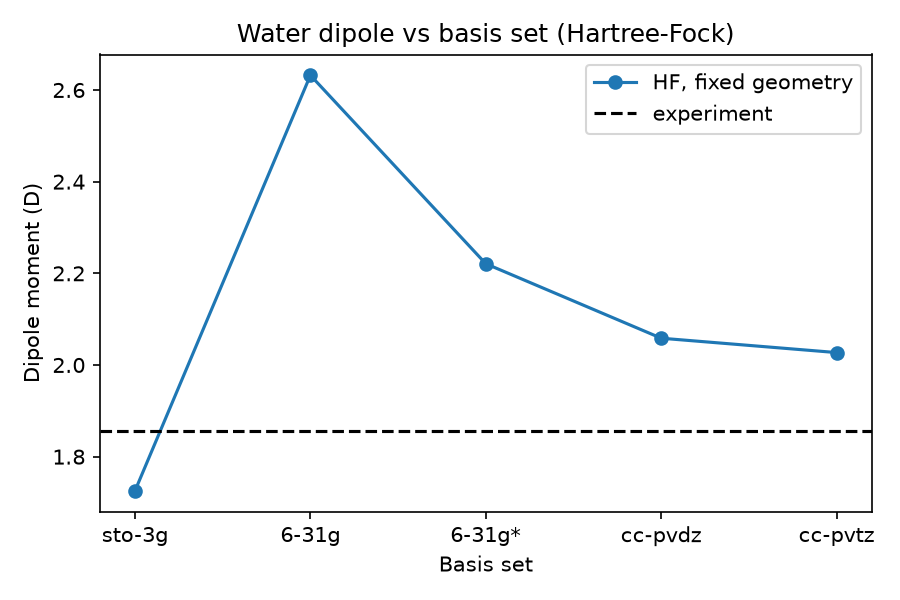
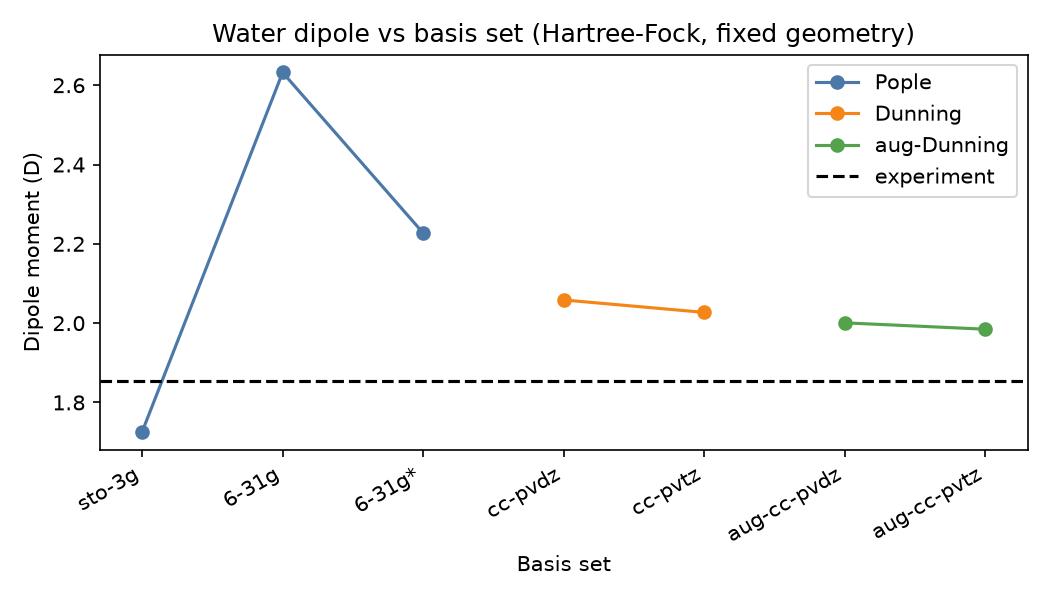
Add files via upload

diff --git a/results/summary.md b/results/summary.md
@@ -1,19 +1,26 @@
 ## Part A: basis-set study (HF, fixed geometry)
 
-| basis | basis_functions | energy_Eh | energy_drop_kcal_mol | dipole_D | dipole_error_D |
-|---|---|---|---|---|---|
-| sto-3g | 7 | -74.963063 |  | 1.726 | -0.129 |
-| 6-31g | 13 | -75.983948 | 640.6 | 2.632 | 0.777 |
-| 6-31g* | 18 | -76.009099 | 15.8 | 2.221 | 0.366 |
-| cc-pvdz | 24 | -76.026766 | 11.1 | 2.058 | 0.203 |
-| cc-pvtz | 58 | -76.057114 | 19.0 | 2.027 | 0.172 |
-
-## Part B: method study (optimised at cc-pvtz)
-
-| method | r_OH_A | r_OH_error_A | angle_deg | angle_error_deg | dipole_D | dipole_error_D |
+| family | basis | basis_functions | energy_Eh | energy_drop_kcal_mol | dipole_D | dipole_error_D |
 |---|---|---|---|---|---|---|
-| HF | 0.9406 | -0.0166 | 106.00 | +1.48 | 1.988 | +0.133 |
-| PBE | 0.9697 | +0.0125 | 103.53 | -0.99 | 1.885 | +0.030 |
-| B3LYP | 0.9613 | +0.0041 | 104.54 | +0.02 | 1.919 | +0.064 |
+| Pople | sto-3g | 7 | -74.963063 |  | 1.726 | -0.129 |
+| Pople | 6-31g | 13 | -75.983948 | 640.6 | 2.632 | +0.777 |
+| Pople | 6-31g* | 19 | -76.010496 | 16.7 | 2.227 | +0.372 |
+| Dunning | cc-pvdz | 24 | -76.026766 |  | 2.058 | +0.203 |
+| Dunning | cc-pvtz | 58 | -76.057114 | 19.0 | 2.027 | +0.172 |
+| aug-Dunning | aug-cc-pvdz | 41 | -76.041382 |  | 2.001 | +0.146 |
+| aug-Dunning | aug-cc-pvtz | 92 | -76.060559 | 12.0 | 1.985 | +0.130 |
+
+## Part B: method study (geometry optimised for each method and basis)
+
+| basis | method | r_OH_A | r_OH_error_A | angle_deg | angle_error_deg | dipole_D | dipole_error_D |
+|---|---|---|---|---|---|---|---|
+| cc-pvtz | HF | 0.9406 | -0.0166 | 106.00 | +1.48 | 1.988 | +0.133 |
+| cc-pvtz | PBE | 0.9697 | +0.0125 | 103.53 | -0.99 | 1.885 | +0.030 |
+| cc-pvtz | B3LYP | 0.9613 | +0.0041 | 104.54 | +0.02 | 1.919 | +0.064 |
+| aug-cc-pvtz | HF | 0.9410 | -0.0162 | 106.32 | +1.80 | 1.939 | +0.084 |
+| aug-cc-pvtz | PBE | 0.9703 | +0.0131 | 104.17 | -0.35 | 1.805 | -0.050 |
+| aug-cc-pvtz | B3LYP | 0.9618 | +0.0046 | 105.10 | +0.58 | 1.847 | -0.008 |
 
 Experiment: r(OH) = 0.9572 A, angle = 104.52 deg, dipole = 1.855 D
+
+Generated with PySCF 2.15.1
